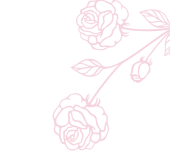
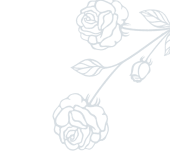
30-04 code

diff --git a/assets/css/style.css b/assets/css/style.css
@@ -40,12 +40,14 @@ p {
 }
 
 :root {
-  --pink-color: #cd2959;
-  --gray-dark-color: #242424;
+  --pink-color: #365871;
+  --gray-dark-color: #21201C;
   --white-color: #ffffff;
-  --gray-light-color: #797979;
+  --gray-light-color: #767571;
 }
-
+body{
+  background-color: #FDFCF8;
+}
 /* ---navbar--start */
 #navbar {
   background-image: url("../images/navbar-bg.png");
@@ -62,7 +64,7 @@ p {
 }
 #navbar .flower-img .flower-left {
   position: absolute;
-  bottom: -8%;
+  bottom: 0;
   left: 0;
 }
 .flower-left,
@@ -102,32 +104,45 @@ p {
   visibility: hidden;
   transition: all 0.5s;
 }
-#navbar .navbar-nav .nav-link:hover,
-.footer-nav .nav-link:hover {
+#navbar .navbar-nav .nav-link:hover {
   color: var(--pink-color);
+}
+.footer-nav .nav-link:hover {
+  color: #9EC3D6;
 }
 
 .btn-close:focus {
   box-shadow: none;
 }
-#navbar .navbar-nav .nav-link.active,
-.footer-nav .nav-link.active {
+
+#navbar .navbar-nav .nav-link.active {
   color: var(--pink-color);
+}
+.footer-nav .nav-link.active {
+  color: #9EC3D6;
 }
 
 #navbar .navbar-nav .nav-link.active::after,
-#navbar .navbar-nav .nav-link:hover::after,
-.footer-nav .nav-link.active::after,
-.footer-nav .nav-link.nav-link:hover::after {
+#navbar .navbar-nav .nav-link:hover::after{
   transform: translateX(-50%);
   background-color: var(--pink-color);
   visibility: visible;
   opacity: 1;
   width: 20px;
 }
-#navbar .navbar-nav .nav-link.active,
-.footer-nav .nav-link.active {
+.footer-nav .nav-link.active::after,
+.footer-nav .nav-link.nav-link:hover::after {
+  transform: translateX(-50%);
+  background-color: #9EC3D6;
+  visibility: visible;
+  opacity: 1;
+  width: 20px;
+}
+#navbar .navbar-nav .nav-link.active {
   color: var(--pink-color);
+}
+.footer-nav .nav-link.active {
+  color: #9EC3D6;
 }
 
 /* ---navbar--end */
@@ -162,7 +177,7 @@ p {
   border-radius: 800px;
   background-color: var(--pink-color);
   color: var(--white-color);
-  box-shadow: 0px 7px 45px 0 rgba(205, 41, 89, 0.25);
+  box-shadow: 0px 7px 45px 0 rgba(54, 88, 113, 0.25);
   margin-bottom: 135px;
 }
 .hero-info .btn,
@@ -261,7 +276,7 @@ p {
   }
   #navbar .navbar-toggler:focus {
     text-decoration: none;
-    box-shadow: 0 5px 18px 0 rgba(205, 41, 89, 0.1);
+    box-shadow: 0 5px 18px 0 rgba(54, 88, 113, 0.1);
   }
   .navbar-toggler-icon {
     width: 26px;
@@ -272,7 +287,7 @@ p {
     top: 100%;
     left: 0;
     width: 100%;
-    background-color: rgba(255, 192, 203, 0.6);
+    background-color: rgba(54, 88, 113, 0.6);
     backdrop-filter: blur(10px);
     -webkit-backdrop-filter: blur(10px);
     transition: height 0.4s ease;
@@ -292,7 +307,7 @@ p {
     left: 0;
     width: 100%;
     height: 100vh;
-    background-color: rgba(255, 192, 203, 0.6);
+    background-color: rgba(54, 88, 113, 0.6);
     backdrop-filter: blur(10px);
     -webkit-backdrop-filter: blur(10px);
     padding: 60px 20px 20px;
@@ -317,7 +332,9 @@ p {
     font-size: 18px;
     line-height: 20px;
     text-align: center;
+    color: white;
   }
+
   .close-nav {
     position: absolute;
     top: 20px;
@@ -352,14 +369,14 @@ p {
 }
 .count-sec-info {
   background-color: var(--white-color);
-  box-shadow: 0 5px 18px 0 rgba(205, 41, 89, 0.1);
+  box-shadow: 0 5px 18px 0 rgba(54, 88, 113, 0.25);
   padding: 35px 60px;
   border-radius: 20px;
   transition: all 0.4s ease;
 }
 .count-sec-info:hover {
   transform: translateY(-8px);
-  box-shadow: 0 10px 30px rgba(205, 41, 89, 0.2);
+  box-shadow: 0 10px 30px rgba(54, 88, 113, 0.25);
 }
 .count-info {
   text-align: center;
@@ -548,7 +565,7 @@ p {
   padding: 30px 0 40px;
 }
 .selling-info {
-  background-color: rgba(205, 41, 89, 5%);
+  background-color: rgba(54, 88, 113, 5%);
   padding: 10px;
   border-radius: 800px;
   width: 100%;
@@ -556,14 +573,14 @@ p {
   transition: transform 0.4s ease;
 }
 .selling-data {
-  border: 1px solid rgba(205, 41, 89, 50%);
+  border: 1px solid var(--pink-color);
   border-radius: 800px;
   padding: 50px 30px;
   display: flex;
   flex-direction: column;
   justify-content: center;
   align-items: center;
-  box-shadow: 0 0 0 rgba(205, 41, 89, 0);
+  box-shadow: 0 0 10px rgba(54, 88, 113, 0);
   transition: box-shadow 0.4s ease, transform 0.4s ease;
   cursor: pointer;
   overflow: hidden;
@@ -575,10 +592,10 @@ p {
   width: 140%;
   height: 140%;
   background: radial-gradient(
-    circle,
-    rgba(205, 41, 89, 0.15) 0%,
-    transparent 70%
-  );
+  circle,
+  rgba(54, 88, 113, 0.15) 0%,
+  transparent 70%
+);
   top: 50%;
   left: 50%;
   transform: translate(-50%, -50%) scale(0);
@@ -591,7 +608,7 @@ p {
 }
 
 .selling-data:hover {
-  box-shadow: 0 10px 35px rgba(205, 41, 89, 0.25);
+  box-shadow: 0 10px 35px rgba(54, 88, 113, 0.25);
   transform: scale(1.03);
 }
 
@@ -663,7 +680,7 @@ p {
   background-color: var(--white-color);
   padding: 30px;
   border-radius: 15px;
-  box-shadow: 0 8px 18px 0px rgba(205, 41, 89, 0.1);
+  box-shadow: 0 8px 18px 0px rgba(54, 88, 113, 0.1);
   position: relative;
   overflow: hidden;
   transition: all 0.4s ease;
@@ -677,9 +694,9 @@ p {
   height: 100%;
   background: linear-gradient(
     120deg,
-    rgba(205, 41, 89, 0.05),
+    rgba(54, 88, 113, 0.05),
     transparent,
-    rgba(205, 41, 89, 0.05)
+    rgba(54, 88, 113, 0.05)
   );
   transform: skewX(-15deg);
   transition: all 0.6s ease;
@@ -694,7 +711,7 @@ p {
   width: 90px;
   height: 90px;
   border-radius: 10px;
-  background-color: rgba(205, 41, 89, 8%);
+  background-color: rgba(54, 88, 113, 8%);
   display: flex;
   justify-content: center;
   align-items: center;
@@ -718,7 +735,7 @@ p {
 }
 .process-info:hover .process-icon {
   transform: rotate(8deg) scale(1.1);
-  box-shadow: 0 5px 20px rgba(205, 41, 89, 0.3);
+  box-shadow: 0 5px 20px rgba(54, 88, 113, 0.3);
 }
 
 .process-icon img {
@@ -793,7 +810,7 @@ p {
   padding: 18px 40px;
   border-radius: 800px;
   color: var(--gray-light-color);
-  background-color: #f6f6f6;
+  background-color: #F4F3EF;
   margin-right: 0;
   transition: all 0.3s ease;
 }
@@ -825,7 +842,7 @@ p {
 
 .catalog-info {
   background-color: var(--white-color);
-  box-shadow: 0 5px 15px 0 rgba(205, 41, 89, 0.15);
+  box-shadow: 0 5px 15px 0 rgba(54, 88, 113,0.15);
   border-radius: 800px 800px 30px 20px;
   padding: 5px 4px 0 4px;
   transition: all 0.3s ease-in-out;
@@ -833,8 +850,8 @@ p {
 }
 .catalog-info:hover {
   transform: scale(1.03);
-  box-shadow: 0 12px 25px rgba(205, 41, 89, 0.25);
-  background-color: #fff7fa;
+  box-shadow: 0 8px 20px rgba(54, 88, 113,0.25);
+  background-color: #e6ecf182;
 }
 
 .catalog-info img {
@@ -1059,7 +1076,7 @@ p {
 /* ---order-flow--start */
 .order-flow {
   margin-top: 120px;
-  background-color: rgba(205, 41, 89, 5%);
+  background-color: rgba(54, 88, 113, 5%);
   padding: 50px 0;
   position: relative;
 }
@@ -1184,7 +1201,7 @@ textarea:focus,
   margin-bottom: 15px;
 }
 .contact-form .form-control {
-  background-color: #f6f6f6;
+  background-color: #F4F3EF;
   padding: 16px 15px;
   font-size: 14px;
   line-height: 14px;
@@ -1207,7 +1224,7 @@ textarea:focus,
   padding: 18px 40px;
   background-color: var(--pink-color);
   border-radius: 800px;
-  box-shadow: 0 7px 45px 0 rgba(205, 41, 89, 0.25);
+  box-shadow: 0 7px 45px 0 rgba(54, 88, 113, 0.25);
 }
 .contact-img {
   margin-bottom: 30px;
@@ -1220,7 +1237,6 @@ textarea:focus,
   transition: all 0.3s ease;
 }
 .contact-list li:hover .contact-icon {
-  background-color: var(--gray-dark-color);
   transform: scale(1.05);
 }
 
@@ -1246,7 +1262,7 @@ textarea:focus,
   width: 56px;
   height: 56px;
   border-radius: 10px;
-  background-color: rgba(205, 41, 89, 0.08);
+  background-color: rgba(54, 88, 113, 0.08);
   display: flex;
   justify-content: center;
   align-items: center;
@@ -1277,7 +1293,7 @@ textarea:focus,
 }
 .contact-main {
   background-color: white;
-  box-shadow: 0 3px 18px 0 rgba(205, 41, 89, 0.1);
+  box-shadow: 0 3px 18px 0 rgba(54, 88, 113, 0.1);
   border-radius: 18px;
   padding: 40px;
 }
@@ -1344,7 +1360,7 @@ textarea:focus,
 /* --footer--start */
 footer {
   margin-top: 120px;
-  background-color: #20191b;
+  background-color: #21201C;
   padding-top: 50px;
   text-align: center;
 }
@@ -1370,7 +1386,7 @@ footer {
   transition: all 0.5s;
 }
 .footer-nav .nav-link.active {
-  color: var(--pink-color);
+  color: #9EC3D6;
 }
 .copy-right {
   border-top: 1px solid rgb(246, 246, 246, 20%);
@@ -1383,12 +1399,12 @@ footer {
   font-size: 16px;
   line-height: 16px;
   font-weight: 400;
-  color: var(--white-color);
+  color: #f6f6f6;
   margin-bottom: 0;
   transition: all 0.5s;
 }
 .copy-right h3:hover {
-  color: #e8809f;
+  color: #9EC3D6;
   cursor: pointer;
 }
 .social-icon {

diff --git a/index.html b/index.html
@@ -139,7 +139,7 @@
        <section class="selling-items">
         <div class="container">
           <div class="common-title">
-            <h2>Discover our <span>best-selling</span> items </h2>
+            <h2> <span> Discover our </span>best-selling <span>items</span> </h2>
           </div>
           <div class="owl-carousel selling-carousel owl-theme">
           <div class="item">
@@ -154,7 +154,7 @@
           <div class="item">
             <div class="selling-info">
               <div class="selling-data">
-                <img src="assets/images/process3.png" alt="">
+                <img src="assets/images/process2.png" alt="">
                 <p>For Birthday Wishes</p>
                 <h3>Rose Bouquet</h3>
               </div>
@@ -190,7 +190,7 @@
           <div class="item">
             <div class="selling-info">
               <div class="selling-data">
-                <img src="assets/images/process3.png" alt="">
+                <img src="assets/images/process2.png" alt="">
                 <p>For Birthday Wishes</p>
                 <h3>Rose Bouquet</h3>
               </div>
@@ -226,7 +226,7 @@
           <div class="item">
             <div class="selling-info">
               <div class="selling-data">
-                <img src="assets/images/process3.png" alt="">
+                <img src="assets/images/process2.png" alt="">
                 <p>For Birthday Wishes</p>
                 <h3>Rose Bouquet</h3>
               </div>

diff --git a/assets/js/main.js b/assets/js/main.js
@@ -47,9 +47,9 @@ $('.selling-carousel').owlCarousel({
     loop: false,
     margin: 20,
     nav: false,
-    // autoplay: true,              
-    // autoplayTimeout: 2000, 
-    // autoplayHoverPause: true, 
+    autoplay: true,              
+    autoplayTimeout: 2000, 
+    autoplayHoverPause: true, 
     responsive: {
         0:{
             items: 1
